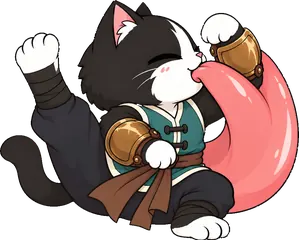
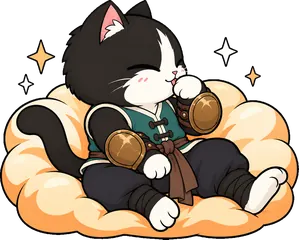
噹噹「舔毛」牌面重生：舌頭只露一小點、閉眼窩在軟墊上舔前掌（原圖一大條舌頭橫過畫面，使用者：太醜了）
Claude-Session: https://claude.ai/code/session_012JXaE6S44sFXVeQ2Dij63U

diff --git a/tools/make_dangdang_tianmao_0925.py b/tools/make_dangdang_tianmao_0925.py
@@ -1,0 +1,51 @@
+# -*- coding: utf-8 -*-
+"""
+噹噹「舔毛」牌面重生（2026-09-25 使用者：「太醜了」）。
+
+原本那張照 `make_dangdang_gcard_jobs.py` 的「兩個大東西各佔一半」寫法，大物件寫的是
+「一條佔半張圖、捲起來的巨大鮭魚粉舌頭」，畫出來就是一大條舌頭橫過畫面，很怪。
+這一版只換構圖那一段：噹噹佔大半張、窩在暖橘色的軟墊光上舒服地舔前掌，**舌頭只露出一小點**；
+角色描述、綠幕去背、描邊與配色規則照原本那一份（從 dangdang_gcards_3.json 讀出來沿用）。
+
+用法：python tools/make_dangdang_tianmao_0925.py  → 產生 tools/codex_jobs/dangdang_tianmao_0925.json
+"""
+import json
+import sys
+from pathlib import Path
+
+sys.stdout.reconfigure(encoding='utf-8')
+ROOT = Path(__file__).resolve().parent
+KEY = 'card_dangdang_tianmao.png'
+src = json.loads((ROOT / 'codex_jobs' / 'dangdang_gcards_3.json').read_text(encoding='utf-8'))[KEY]
+
+head_end = src.index('TWO THINGS SHARE THE FRAME')
+char_at = src.index('THE CHARACTER is')
+fill_at = src.index('FILL THE WHOLE FRAME.')
+bold_at = src.index('Bold and readable at thumbnail size')
+
+opening = 'A cartoon illustration for a card game, landscape composition, showing ONE black-and-white tuxedo cat calmly grooming himself.\n\n'
+composition = """THE PICTURE:
+The cat fills about 70% of the picture. He is curled up comfortably on a soft, puffy cushion of warm light
+drawn in CREAM and WARM ORANGE (like a cosy nap cloud, with a thick black outline round it), with a few small
+four-pointed sparkles in white and pale orange around him, each sparkle outlined in black.
+He is grooming himself the way a cat does: licking the back of his own raised white front paw, eyes gently shut
+in a happy, relaxed little smile, a faint pink blush on his cheeks. One hind leg stretches out lazily.
+**THE TONGUE IS TINY.** Only the small pink tip of a normal cat tongue shows, just touching his paw - smaller than
+his paw. Do NOT draw a long, huge, thick or curling tongue, and do NOT let the tongue stick out across the picture.
+The mood is sleepy and cute, not funny or gross.
+COPY THE REFERENCE'S PROPORTIONS. This is the part that keeps going wrong, so be strict about it:
+- The head is BIG and ROUND - roughly as large as the whole body. Do not draw a small head.
+- The muzzle is TINY, the body is short and chubby. It is a chibi mascot, not a realistic animal.
+- **A round BRONZE BRACER on EACH of his two forearms** stays visible, even on the paw he is licking.
+Draw it big enough that its face reads clearly when the picture is shrunk to 150 pixels wide.
+
+"""
+fill = """FILL THE WHOLE FRAME. The picture is shown inside a short, almost-square window on the card.
+The cat and his cushion of light together reach the top edge, the bottom edge and both sides; no empty bands.
+
+"""
+prompt = opening + composition + src[char_at:fill_at] + fill + src[bold_at:]
+assert 'tongue curled upward, huge' not in prompt
+out = ROOT / 'codex_jobs' / 'dangdang_tianmao_0925.json'
+out.write_text(json.dumps({KEY: prompt}, ensure_ascii=False, indent=1), encoding='utf-8')
+sys.stdout.write(f'wrote {out} ({len(prompt)} chars)\n')
